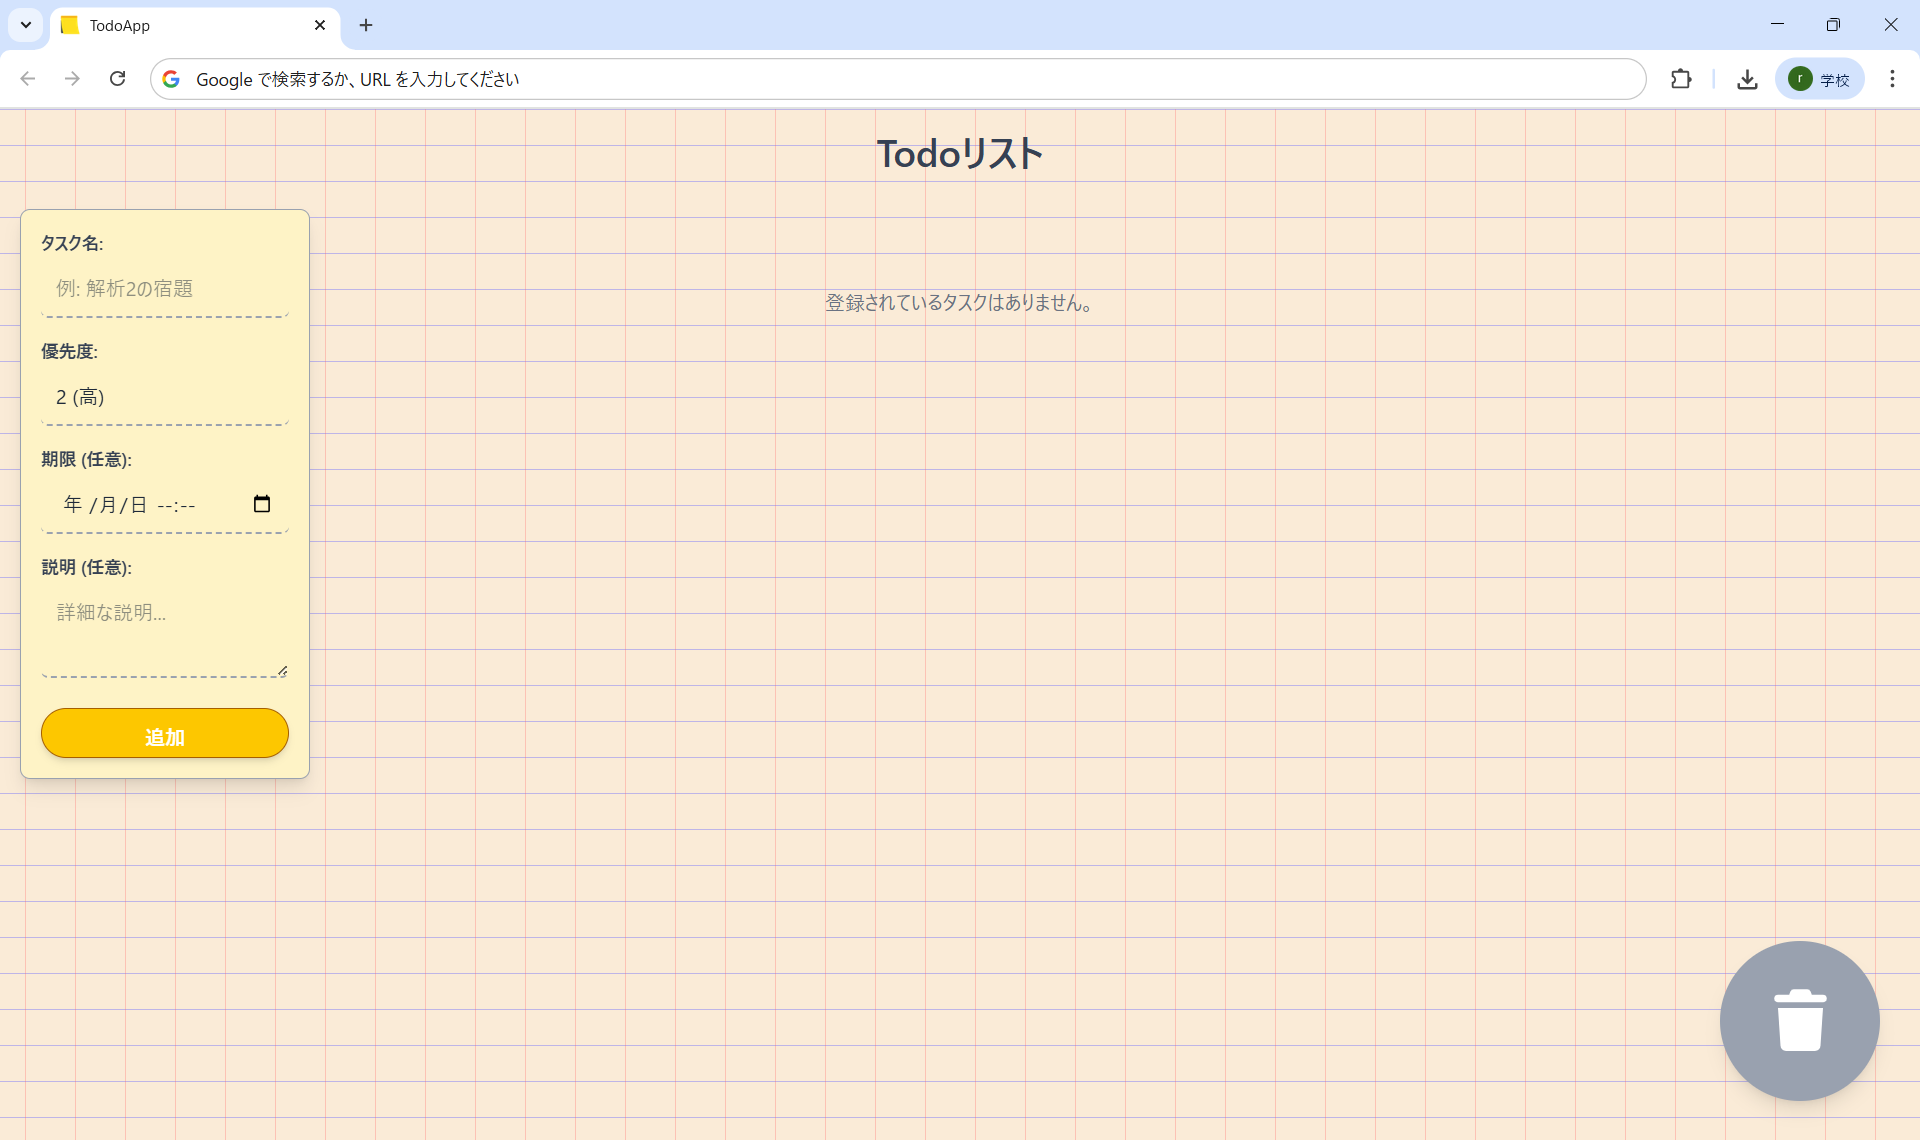
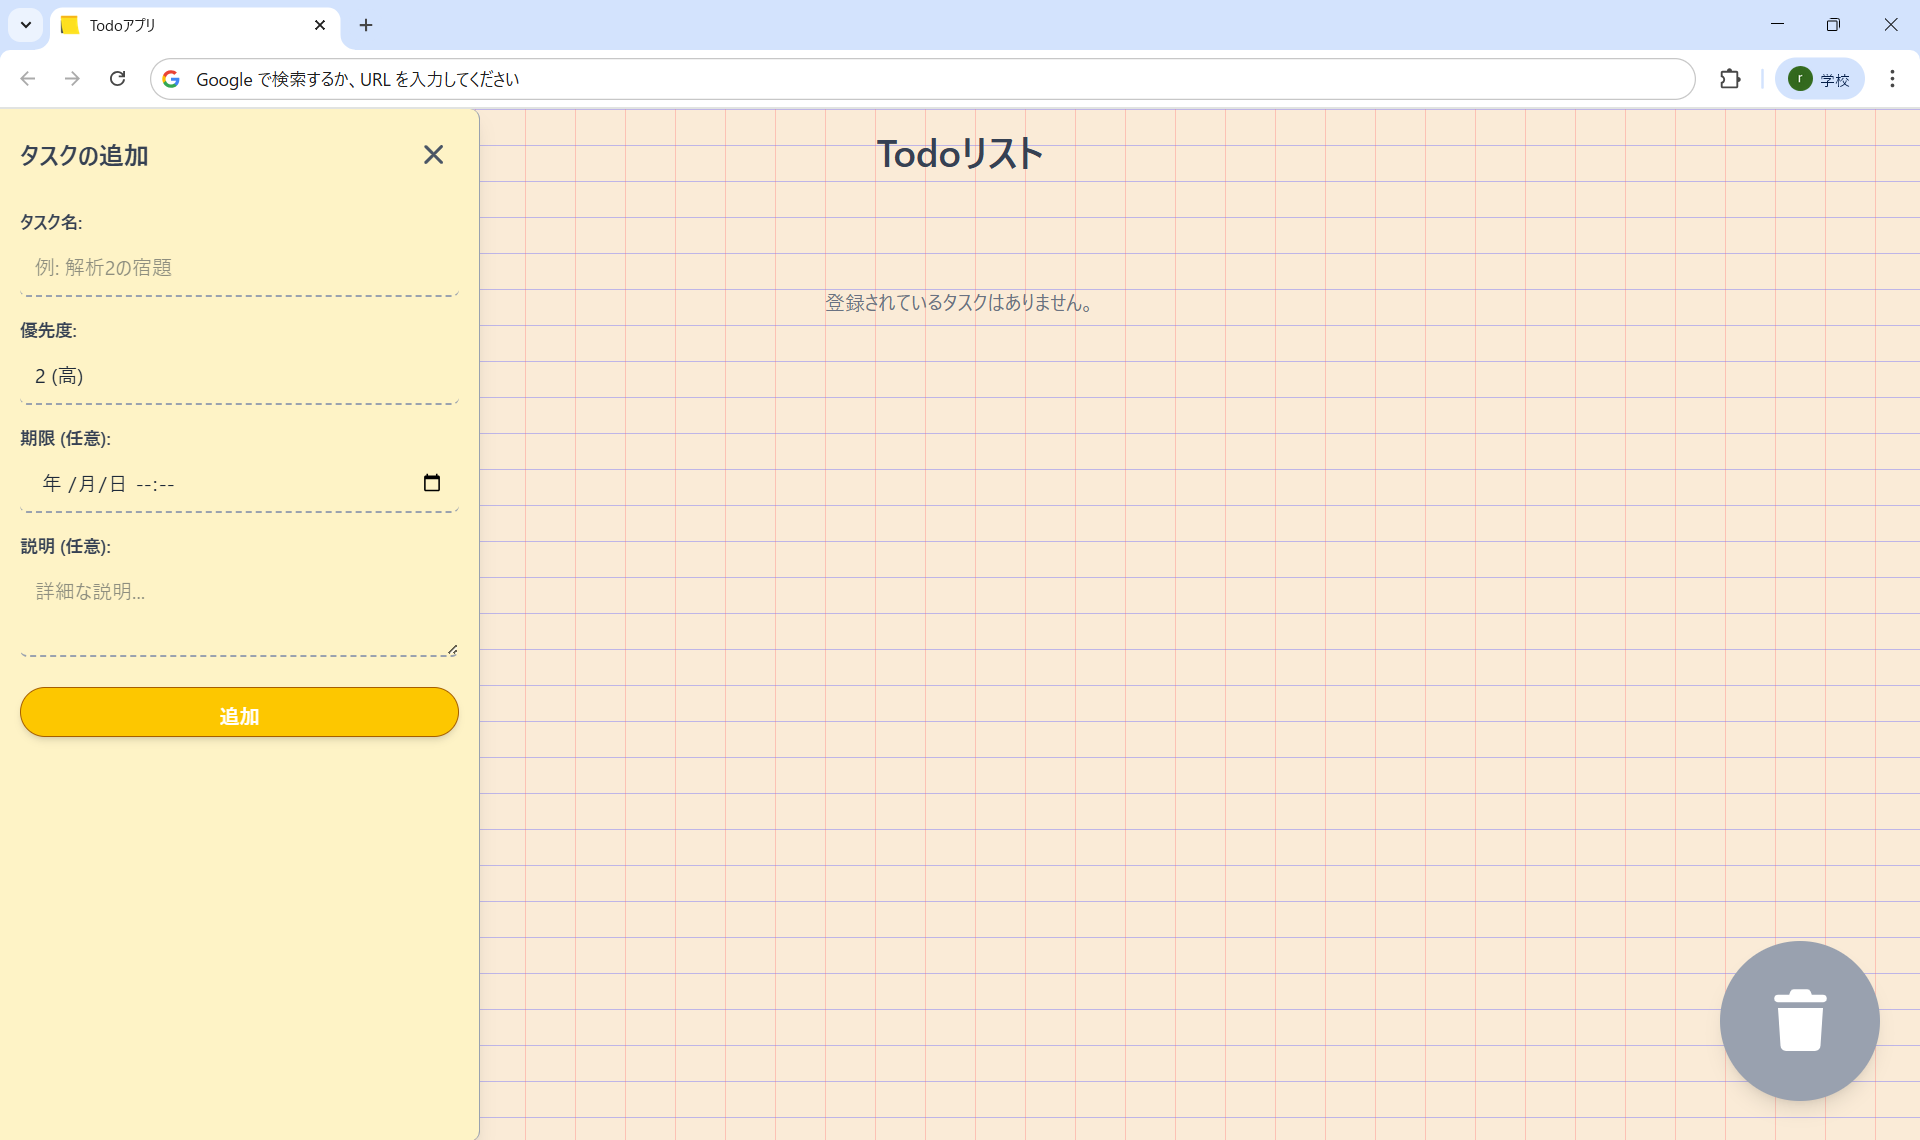
saaa

diff --git a/src/App.tsx b/src/App.tsx
@@ -6,6 +6,8 @@ import {
   faFaceGrinWide,
   faTrash,
   faExclamationTriangle,
+  faBars,
+  faTimes,
 } from "@fortawesome/free-solid-svg-icons";
 import { twMerge } from "tailwind-merge";
 import { initTodos } from "./initTodos";
@@ -60,7 +62,6 @@ const DraggableTodoItem = ({
       onStart={() => onDragStart(todo.id)}
       onStop={handleDragStop}
     >
-      {/*1. 位置制御用の外枠*/}
       <div
         ref={nodeRef}
         className="absolute cursor-move w-64 h-48"
@@ -68,7 +69,6 @@ const DraggableTodoItem = ({
           zIndex: zIndex,
         }}
       >
-        {/*2. 見た目と回転用の内枠*/}
         <div
           className={twMerge(
             "relative w-full h-full rounded-md border border-gray-400 shadow-lg box-border",
@@ -81,9 +81,7 @@ const DraggableTodoItem = ({
             transform: `rotate(${todo.rotate}deg)`,
           }}
         >
-          {/*3. 実際にスクロールするコンテンツエリア */}
           <div className="flex-1 overflow-auto p-3">
-            {/*コンテンツ*/}
             {todo.isDone && (
               <div className="mb-2 rounded bg-gray-500 px-2 py-0.5 text-center text-xs text-white">
                 <FontAwesomeIcon icon={faFaceGrinWide} className="mr-1.5" />
@@ -132,13 +130,11 @@ const DraggableTodoItem = ({
               </div>
             )}
 
-            {/*説明表示 */}
             {todo.description && (
               <div className="mt-2 text-sm text-slate-700 whitespace-pre-wrap break-words">
                 {todo.description}
               </div>
             )}
-            {/*コンテンツ終*/}
           </div>
         </div>
       </div>
@@ -158,7 +154,7 @@ const TodoList = (props: TodoListProps) => {
   const { todos, zIndices, onDragStart, onDragStop, onToggleDone } = props;
 
   return (
-    <div className="relative h-full w-full"> 
+    <div className="relative h-full w-full">
       {todos.length === 0 && (
         <div className="text-center text-gray-500 pt-10">
           登録されているタスクはありません。
@@ -209,6 +205,7 @@ const App = () => {
   const [priority, setPriority] = useState(2);
   const [deadlineInput, setDeadlineInput] = useState("");
   const [description, setDescription] = useState("");
+  const [isMenuOpen, setIsMenuOpen] = useState(false);
   const [isDragging, setIsDragging] = useState(false);
   const trashAreaRef = useRef<HTMLDivElement>(null);
 
@@ -257,11 +254,12 @@ const App = () => {
     setPriority(2);
     setDeadlineInput("");
     setDescription("");
+    setIsMenuOpen(false);
   };
 
   const handleDragStart = (id: string) => {
     let newZ = zCounter + 1;
-    
+
     if (newZ > 19) {
       const sortedIds = Object.keys(zIndices).sort((a, b) => (zIndices[a] || 0) - (zIndices[b] || 0));
       const newZIndices: Record<string, number> = {};
@@ -276,7 +274,7 @@ const App = () => {
       setZIndices(prev => ({ ...prev, [id]: newZ }));
       setZCounter(newZ);
     }
-    
+
     setIsDragging(true);
   };
 
@@ -333,15 +331,32 @@ const App = () => {
         Todoリスト
       </h1>
 
-      {/*フォーム*/}
+      <button
+        onClick={() => setIsMenuOpen(true)}
+        className="fixed top-4 left-4 z-30 h-12 w-12 rounded-full bg-amber-200 text-gray-700 shadow-lg hover:bg-amber-300 focus:outline-none"
+      >
+        <FontAwesomeIcon icon={faBars} size="lg" />
+      </button>
+
       <form
         onSubmit={handleSubmit}
-        className="fixed top-20 left-4 z-20 max-w-sm rounded-lg border border-gray-400 bg-amber-100 p-4 shadow-lg"
+        className={twMerge(
+          "fixed top-0 left-0 z-40 h-full w-full max-w-sm transform overflow-y-auto rounded-r-lg border-r border-gray-400 bg-amber-100 p-4 shadow-lg transition-transform duration-300 ease-in-out",
+          isMenuOpen ? "translate-x-0" : "-translate-x-full"
+        )}
       >
-        {/*フォーム内部は変更なし*/}
         <div className="flex flex-col gap-4">
-          
-          {/*タスク名*/}
+          <div className="flex justify-between items-center mb-2">
+            <h2 className="text-xl font-bold text-gray-700">タスクの追加</h2>
+            <button
+              type="button"
+              onClick={() => setIsMenuOpen(false)}
+              className="h-10 w-10 text-gray-600 hover:text-gray-800"
+            >
+              <FontAwesomeIcon icon={faTimes} size="lg" />
+            </button>
+          </div>
+
           <div>
             <label
               htmlFor="taskName"
@@ -359,7 +374,6 @@ const App = () => {
             />
           </div>
 
-          {/*優先度*/}
           <div>
             <label
               htmlFor="priority"
@@ -380,7 +394,6 @@ const App = () => {
             </select>
           </div>
 
-          {/*期限*/}
           <div>
             <label
               htmlFor="deadline"
@@ -397,7 +410,6 @@ const App = () => {
             />
           </div>
 
-          {/*説明*/}
           <div>
             <label
               htmlFor="description"
@@ -415,7 +427,6 @@ const App = () => {
             />
           </div>
 
-          {/*追加ボタン*/}
           <div>
             <button
               type="submit"
@@ -428,7 +439,6 @@ const App = () => {
         </div>
       </form>
 
-      {/*付箋エリア*/}
       <div className="flex-grow relative overflow-hidden p-8">
         <TodoList
           todos={todos}
@@ -439,7 +449,6 @@ const App = () => {
         />
       </div>
 
-      {/*ゴミ箱*/}
       <div
         ref={trashAreaRef}
         className={twMerge(

diff --git a/README.md b/README.md
@@ -1,16 +1,27 @@
 # TodoApp
 
-React、TypeScript、Tailwind CSSを使用し、ローカルストレージでデータを永続化した「付箋型Todoアプリ」です。<br>
-本TodoアプリのURLは次の通りです。<br>
+本製作物はReact、TypeScript、Tailwind CSSを使用して開発した**付箋**をモチーフにしたTodoアプリです。機能面は一般的なTodoアプリと同じでタスク名、優先度、期限、詳細の四項目をタスクとして管理可能になっています。今回特に私が挑戦した部分はデザイン・UI面です。ノートに付箋を貼っていく雰囲気のデザインにしました。タスクを追加すると画面上に付箋が追加されドラックアンドドロップで好きな場所に移動可能です。下に表示されている画像は実際に本製作物を使用した様子です。タスクを自由自在に配置できる点が、本アプリの一番の特徴です。
+
+## デプロイ先URL
+
 https://sakuramochi444.github.io/react-todo2-app/
 
+## 主な機能
+- タスクの追加
+- ドラッグ＆ドロップ
+- タスクの削除
+- 期限切れハイライト
+- ローカルストレージでのデータ永続化
 
-## 開発履歴
-
-- 2025.10.30 ~ 2025.11.18 (約20時間)
 
 ## あとがき
+
+
 
 !["Todo画像1"](images/todo1.png)
 !["Todo画像2"](images/todo2.png)
 !["Todo画像3"](images/todo3.png)
+
+## 開発期間
+
+- 2025.10.30 ~ 2025.11.18 (約20時間)
